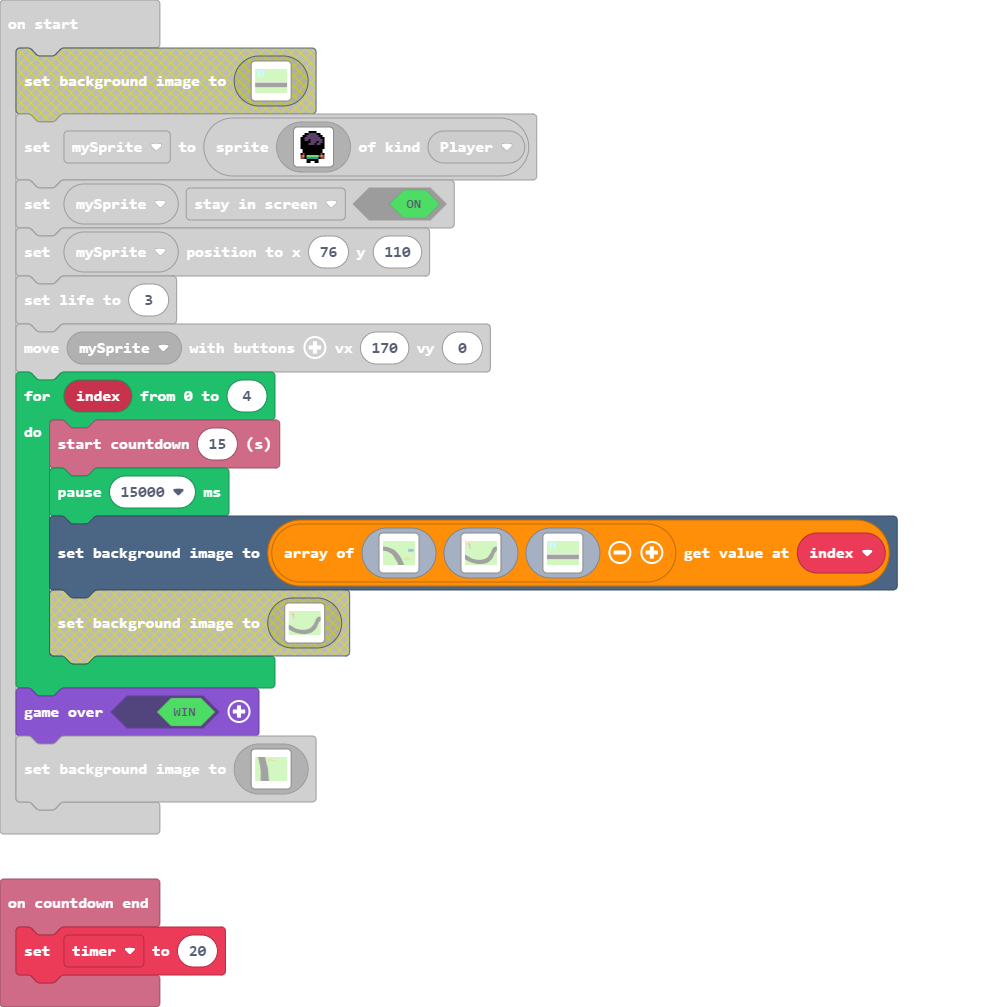
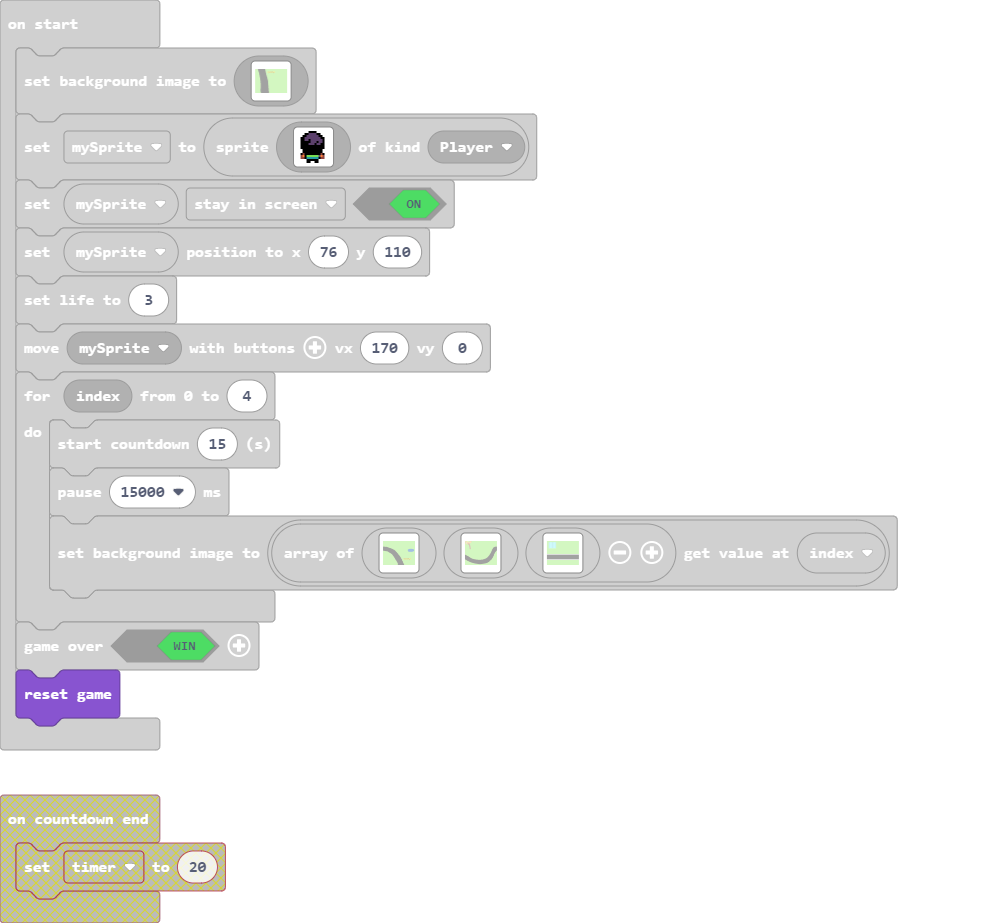
Update main.blocks, main.ts

Changed region(s): [[0.0, 0.0, 0.8981, 1.0]]

diff --git a/main.ts b/main.ts
@@ -10,14 +10,10 @@ controller.up.onEvent(ControllerButtonEvent.Pressed, function () {
         . c c c c c c c c . 
         `, mySprite, 0, -100)
 })
-info.onCountdownEnd(function () {
-    timer = 20
-})
 sprites.onOverlap(SpriteKind.Projectile, SpriteKind.Enemy, function (sprite, otherSprite) {
     otherSprite.destroy()
 })
 let Goose: Sprite = null
-let timer = 0
 let player_projectile: Sprite = null
 let mySprite: Sprite = null
 scene.setBackgroundImage(img`
@@ -533,6 +529,7 @@ for (let index = 0; index <= 4; index++) {
         `][index])
 }
 game.over(true)
+game.reset()
 game.onUpdate(function () {
 	
 })
